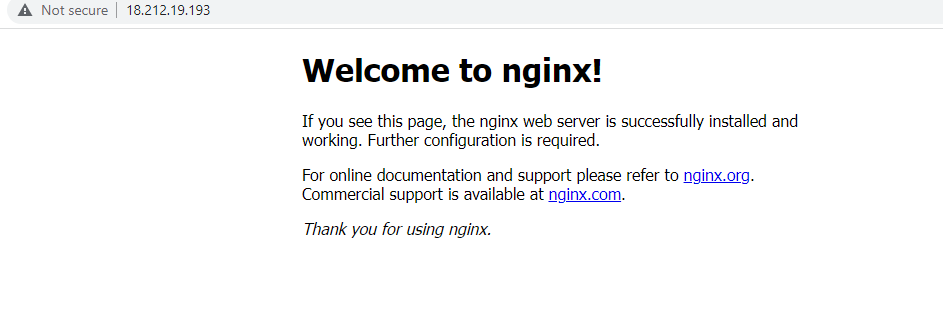
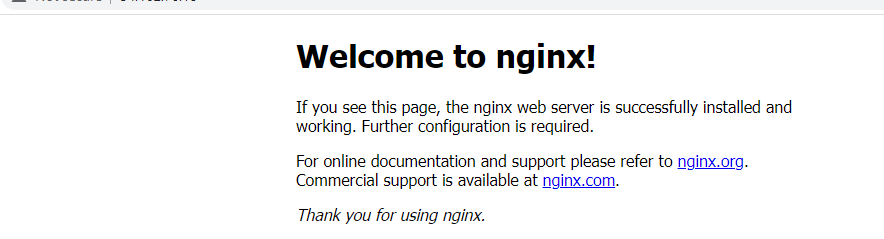
working on project2

diff --git a/Project2.md b/Project2.md
@@ -11,4 +11,16 @@
 `sudo mysql`
 ![mysql](./images/mysql_installed.png)
 
+`sudo apt install php-fpm php-mysql`
+`sudo mkdir /var/www/projectLEMP`
+`sudo chown -R $USER:$USER /var/www/projectLEMP`
+`sudo nano /etc/nginx/sites-available/projectLEMP`
+`sudo ln -s /etc/nginx/sites-available/projectLEMP /etc/nginx/sites-enabled/`
+`sudo nginx -t`
+![nginx](./images/Nginx.png)
+`sudo systemctl reload nginx`
+`sudo echo 'Hello LEMP from hostname' $(curl -s http://54.162.76.18/latest/meta-data/public-hostname) 'with public IP' $(curl -s http://54.162.76.18/latest/meta-data/public-ipv4) > /var/www/projectLEMP/index.html`
+
+`http://54.162.76.18:80`
+![Nginx-working](./images/Nginx-working.png)
 
